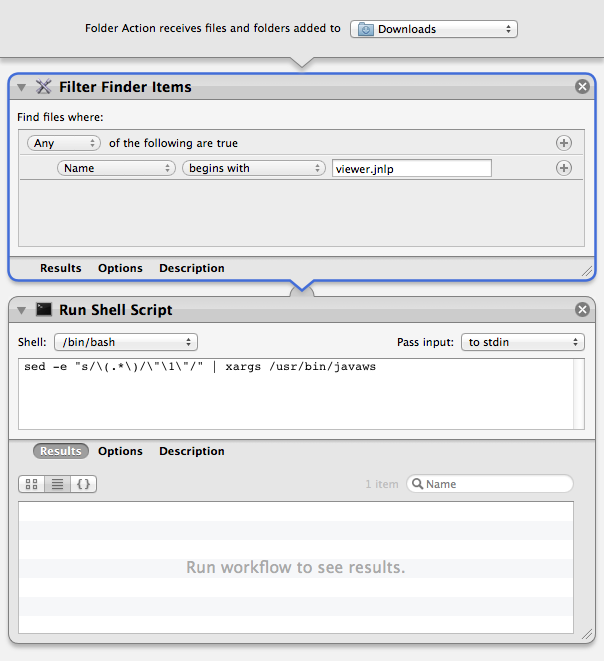
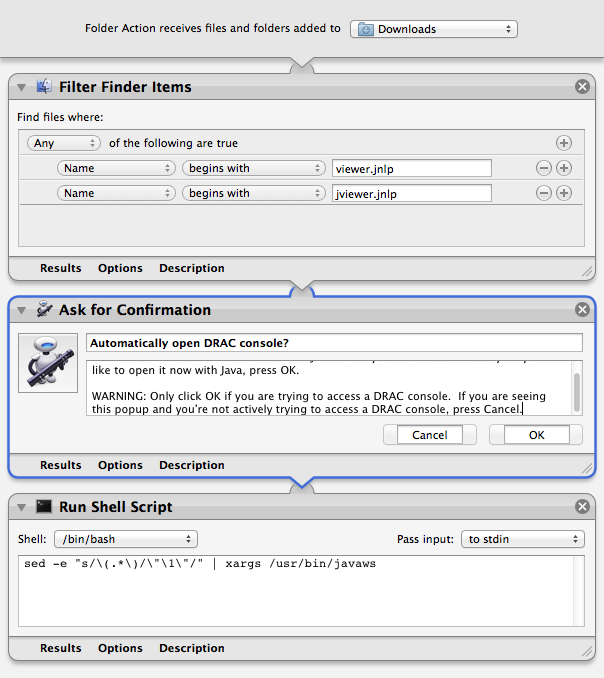
Added confirmation box and support for C6105 DRAC

Changed region(s): [[0.0, 0.0303, 1.0, 0.8775], [0.0298, 0.938, 0.9834, 0.9682]]

diff --git a/README.md b/README.md
@@ -7,17 +7,13 @@ Mac DRAC Automation
 
 DRAC 7 interfaces provide a horribly named JNLP file that is difficult to open without renaming the file or using `/usr/bin/javaws` on it directly.  This workflow will automatically open the JNLP file using javaws on your Mac.
 
-To set it up, move the workflow file from the repository into the folder actions folder in your home directory:
+### Getting started
 
-    my "Open DRAC jnlp file.workflow" "~/Library/Workflows/Applications/Folder Actions/"
+1. Double-click the workflow file to install it into your *Folder Actions* directory.
 
-Open a Finder window within your home directory:
+2. Right click on the folder where your browser automatically downloads files (usually *Downloads*) and go to **Services > Folder Action Setup**.  Once the menu pops up, select **Open DRAC jnlp file.workflow** from the list.  Click **Attach**.
 
-    open ~/
-
-Right click on the folder where your browser automatically downloads files (usually *Downloads*) and go to **Services > Folder Action Setup**.  Once the menu pops up, select **Open DRAC jnlp file.workflow** from the list.  Click **Attach**.
-
-Close the Folder Actions Setup window and launch a virtual console from the DRAC 7 web interface.  You should see Java start up as soon as the file falls into the download folder.
+3. Close the Folder Actions Setup window and launch a virtual console from the DRAC 7 web interface.  You should see Java start up as soon as the file falls into the download folder.
 
 ----
 
